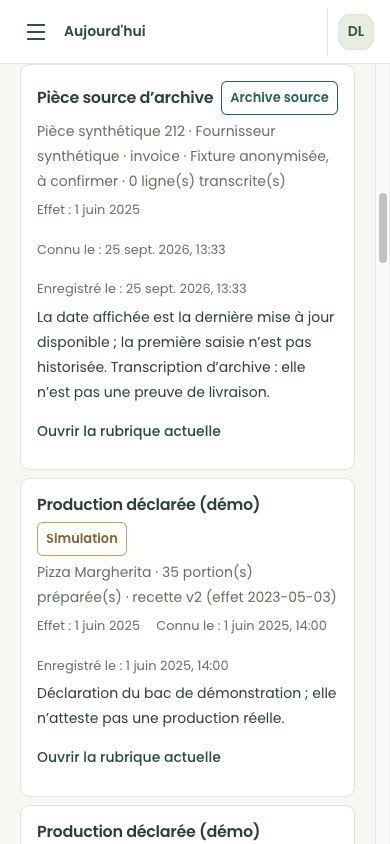
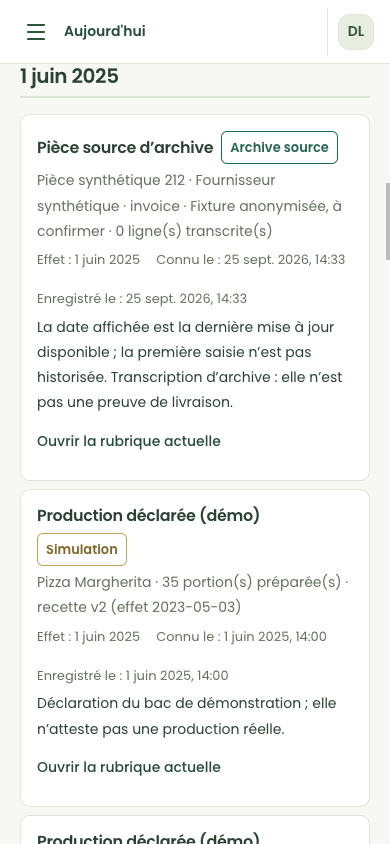
docs: record synthetic C3 responsive review

diff --git a/docs/plans/goal-kookia-progress.md b/docs/plans/goal-kookia-progress.md
@@ -1459,3 +1459,41 @@ diff Prisma vide, `npm test` (29 fichiers/119 Vitest et 33 contrôles Node/CSS),
 intégrations (26 fichiers/39 tests) et restauration synthétique vérifiée, puis
 `migrate status` à jour. `git diff --check` passe. Le conteneur PostgreSQL tmpfs
 a été supprimé ; aucune base conservée ni donnée Camille n'a été utilisée.
+
+### C3 — rendu des chapitres et état incomplet des achats (2026-09-25)
+
+L’URL de connexion annoncée visible par l’utilisateur (`127.0.0.1:56819`) ne
+répondait plus à la reprise. CUA renvoie toujours `browsers: []`, l’IAB est
+indisponible et `getApp("Google Chrome")` échoue `cgWindowNotFound`. Un nouveau
+`demo:fixtures` sur PostgreSQL tmpfs (fixtures uniquement, sans `demo:local`)
+a donc été rendu dans un profil Chrome headless/CDP temporaire ; aucun secret
+ou donnée conservée n’est inclus dans les preuves.
+
+Dans Histoire, chaque plage du 1er au 30 juin 2023, 2024, 2025 et 2026 affiche
+20 cartes initiales sur respectivement 1 366, 1 347, 1 305 et 1 329 événements.
+Les rendus à 390×844 n’ont pas de débordement horizontal. Les cartes rendent la
+provenance Simulation ou Archive source et rappellent qu’une transcription ne
+prouve pas une livraison. Captures inspectées :
+[2023](evidence/c3-fixture-ui/history-2023-390.png),
+[2024](evidence/c3-fixture-ui/history-2024-390.png),
+[2025](evidence/c3-fixture-ui/history-2025-390.png),
+[2026](evidence/c3-fixture-ui/history-2026-390.png).
+
+Dans Achats, le vrai composant `/orders` rend « Pas de quantité fiable »,
+« Complétez les 28 jours de services… » et la note « toute commande validée
+reste simulée, sans envoi ni mouvement de stock » ; le jour manquant du
+2026-09-24 est donc bloqué, pas transformé en achat. À 390×844 le document ne
+déborde pas : [état incomplet](evidence/c3-fixture-ui/orders-insufficient-history-390.png).
+Dans Bilan, le bucket opérationnel reste « Aucune donnée » ; la revue expose
+168 ventes simulées et 215 mouvements de perte simulés comme exclus, puis
+3 328 unités et 215 pertes sous « opérations de démonstration » ; aucune
+réception simulée n’existe dans ce runner. Le document reste contenu à 390 px :
+[détail de simulation](evidence/c3-fixture-ui/impact-simulation-390.png).
+
+Cette passe n’a effectué aucun geste de confirmation dans le parcours Achats.
+Le parcours décision → commande → réception → Impact demeure prouvé par le
+test d’intégration `demoStory.integration.test.ts`, mais pas encore rejoué
+visuellement sur ce runner `demo:fixtures`. Les captures headless valident un
+rendu, pas une activation clavier native, un lecteur d’écran ou le zoom à
+200 % ; ces preuves Q2 restent ouvertes tant que CUA ne donne pas de fenêtre
+contrôlable. Aucun état métier du runner n’a été modifié pendant cette revue.
